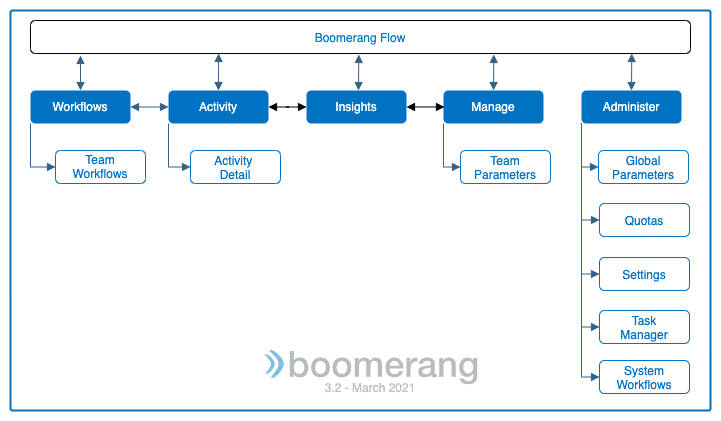
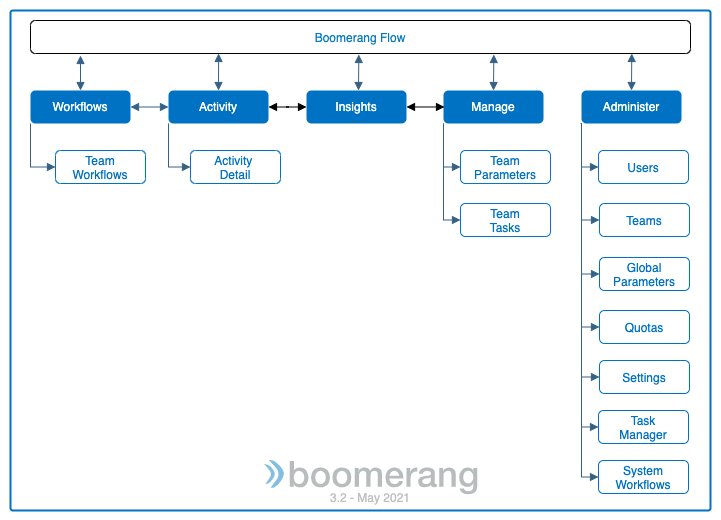
Further Flow 3.2 documentation

Changed region(s): [[0.0, 0.0, 1.0, 0.4632], [0.0, 0.4941, 1.0, 0.9881]]

diff --git a/content/boomerang-flow/3.2.0/getting-to-know/07.tasks.md b/content/boomerang-flow/3.2.0/getting-to-know/07.tasks.md
@@ -17,7 +17,7 @@ Tasks provided out-of-the-box with an installation are labeled as `verified` wit
 
 Users are welcome to create their own tasks, that will be labeled as a `community contribution`. The Boomerang community provides support to verified tasks. These tasks are described in more detail below.
 
-## Task Manager
+## Task Scope and Management
 
 Task Manager is available at the Team and Global level depending on the user role. It is the centralized place to define and manage the tasks available to Workflows and are based on the Tekton Task model, however abstracts the experience so you don't need to be working in YAML directly in Kubernetes.
 
@@ -25,7 +25,7 @@ Tasks follow the Tekton Task model along with Kubernetes standards and allow you
 
 ### Team Task Manager
 
-The Team Task Manager can be found under Manage > Team Tasks and allows users in the team to create and manage tasks scoped to the team and only available to that team. You will need to be careful that when you export a workflow that references a Team Task, it will only be able to be imported to a Team that has the same task.
+The Team Task Manager can be found under Manage > Team Tasks and allows users in the team to create and manage tasks scoped to the team and only available to that team. For more information, see [How to Manage Team Tasks](/boomerang-flow/how-to-manage/team-tasks)
 
 ### Global Task Manager
 
@@ -33,7 +33,7 @@ All of the shared Tasks across the instance of Boomerang Flow are Global tasks t
 
 ### YAML Definition
 
-The YAML specification has three important sections to be aware of: metadata, params, and steps. Its important to note that the full Tekton task specification is not yet fully supported. We cannot run multi step tasks, nor do we allow resources to be specified. For more information, see [Known Issues and Limitations](https://www.useboomerang.io/docs/boomerang-flow/introduction/known-issues-limitations)
+The YAML specification has three important sections to be aware of: metadata, params, and steps. Its important to note that the full Tekton task specification is not yet fully supported. We cannot run multi step tasks, nor do we allow resources to be specified. For more information, see [Known Issues and Limitations](/boomerang-flow/introduction/known-issues-limitations)
 
 **Metadata**
 

diff --git a/content/boomerang-flow/3.2.0/introduction/01.overview.md b/content/boomerang-flow/3.2.0/introduction/01.overview.md
@@ -39,6 +39,8 @@ Create your next workflow to produce an end-to-end process that executes a serie
 * Editor - Use the advanced visual drag-and-drop workflow Editor to define triggers, set options, create properties, and link the workflow tasks together.
 * Insights - View powerful metrics and real-time statistics on workflow executions over time, showing peak execution periods, average run times, and percentage of success and failures.
 
+See [Navigating](/boomerang-flow/introduction/navigating) for more information.
+
 ## Tasks
 
 Tasks can be split into three distinct types. See [Getting To Know Tasks](/boomerang-flow/getting-to-know/tasks) for more information.
@@ -49,6 +51,6 @@ Tasks can be split into three distinct types. See [Getting To Know Tasks](/boome
 
 ## IBM Services Essentials
 
-As Boomerang Flow was contributed to open source, and continues to be sponsored by IBM integration with IBM Services<sup>®</sup> Essentials. Flow is supported out-of-the box, providing additional enterprise capabilities such as audit logging, consent management, and user and team role management via the broader IBM platform. There are also tasks available that rely on platform services. 
+As Boomerang Flow was contributed to open source, and continues to be sponsored by IBM, integration is enabled with IBM Services<sup>®</sup> Essentials. Flow is supported out-of-the box, providing additional enterprise capabilities such as audit logging, consent management, and user and team role management via the broader IBM platform. There are also tasks available that rely on platform services. 
 
 At installation time, you can configure whether to run Boomerang Flow in standalone mode or integrated to IBM Services Essentials.

diff --git a/content/boomerang-flow/3.2.0/how-to-manage/02.team-tasks.md b/content/boomerang-flow/3.2.0/how-to-manage/02.team-tasks.md
@@ -1,0 +1,16 @@
+---
+title: Team Tasks
+index: 2
+---
+
+# Team Tasks
+
+Team Tasks are scoped to a specific team, and only visible by that team in the Task palette as part of the Workflow Editor. For more information, see [Getting to Know Tasks](/boomerang-flow/getting-to-know/tasks).
+
+> **Note:** You will need to be careful that when you export a workflow that references a Team Task, it will only be able to be imported to a Team that has the same task.
+
+## Workflow Editors
+
+In the Workflow Editor, Team Tasks are still found in the Task palette and are denoted by the words: 'Team Task' underneath the name of the task.
+
+![Team Tasks in Workflow Editor](./assets/img/team-tasks-workfloweditor.png)

diff --git a/content/boomerang-flow/3.2.0/getting-to-know/08.quotas.md b/content/boomerang-flow/3.2.0/getting-to-know/08.quotas.md
@@ -1,0 +1,17 @@
+---
+title: Quotas
+index: 8
+---
+
+# Quotas
+
+Quotas help provide limits and enforce governance as to what teams can do.
+
+![Administering Quotas](./assets/img/quotas.png)
+
+| Quota | Purpose | Default | 
+| --- | --- | --- |
+| Number of Workflows | Number of Workflows that can be created for this team. | 10 |
+| Number of Executions | Number of executions per month across all Workflows for this Team | 100 per month |
+| Concurrent Workflows | Max number of Workflows able to run at the same time. | 4 Workflows |
+| Storage Size Capacity | The maximum number of workspace storage that can be created | 5GB per Workflow |

diff --git a/content/boomerang-flow/3.2.0/introduction/02.navigating.md b/content/boomerang-flow/3.2.0/introduction/02.navigating.md
@@ -38,4 +38,4 @@ The menu is the primary navigation tool for Boomerang CICD located to the top le
 The following documentation contains information for the usage of Boomerang Flow:
 
 - [Workflow Editor](/boomerang-flow/getting-to-know/editor) - visually draw and edit your workflow and drag and drop tasks from the pallette.
-- [Quotas]() - Allocate a team quotas for executing and managing workflows.
+- [Quotas](/boomerang-flow/getting-to-know/quotas) - Allocate a team quotas for executing and managing workflows.

diff --git a/content/boomerang-flow/3.2.0/how-to-manage/01.team-parameters.md b/content/boomerang-flow/3.2.0/how-to-manage/01.team-parameters.md
@@ -1,0 +1,9 @@
+---
+title: Team Parameters
+index: 1
+---
+
+# Team Parameters
+
+Team Parameters are one of the scopes of the Parameter layering available and this Parameter management screen allows you to create, edit, and delete Team Parameters. For more information, see [Getting to Know Parameters](/boomerang-flow/getting-to-know/parameters).
+

diff --git a/content/boomerang-flow/3.2.0/introduction/05.known-issues.md b/content/boomerang-flow/3.2.0/introduction/05.known-issues.md
@@ -12,6 +12,9 @@ index: 5
 - We only support single step task definitions
 - We don't support the script based step in task definitions
 - We don't support array based parameters
+- We don't support environment variabels
+
+> **Note:** The next version should resolve these limitations
 
 # Deprecations
 

diff --git a/content/boomerang-flow/3.2.0/introduction/04.whats-new.md b/content/boomerang-flow/3.2.0/introduction/04.whats-new.md
@@ -43,5 +43,3 @@ You can find more details about the features in the detailed documentation.
 - Fix for Custom Task execution that intermittently did not end and would run through to a Tasks timeout
 - Fix for Run Workflow where required parameters did not become required
 
-## Installation
-
